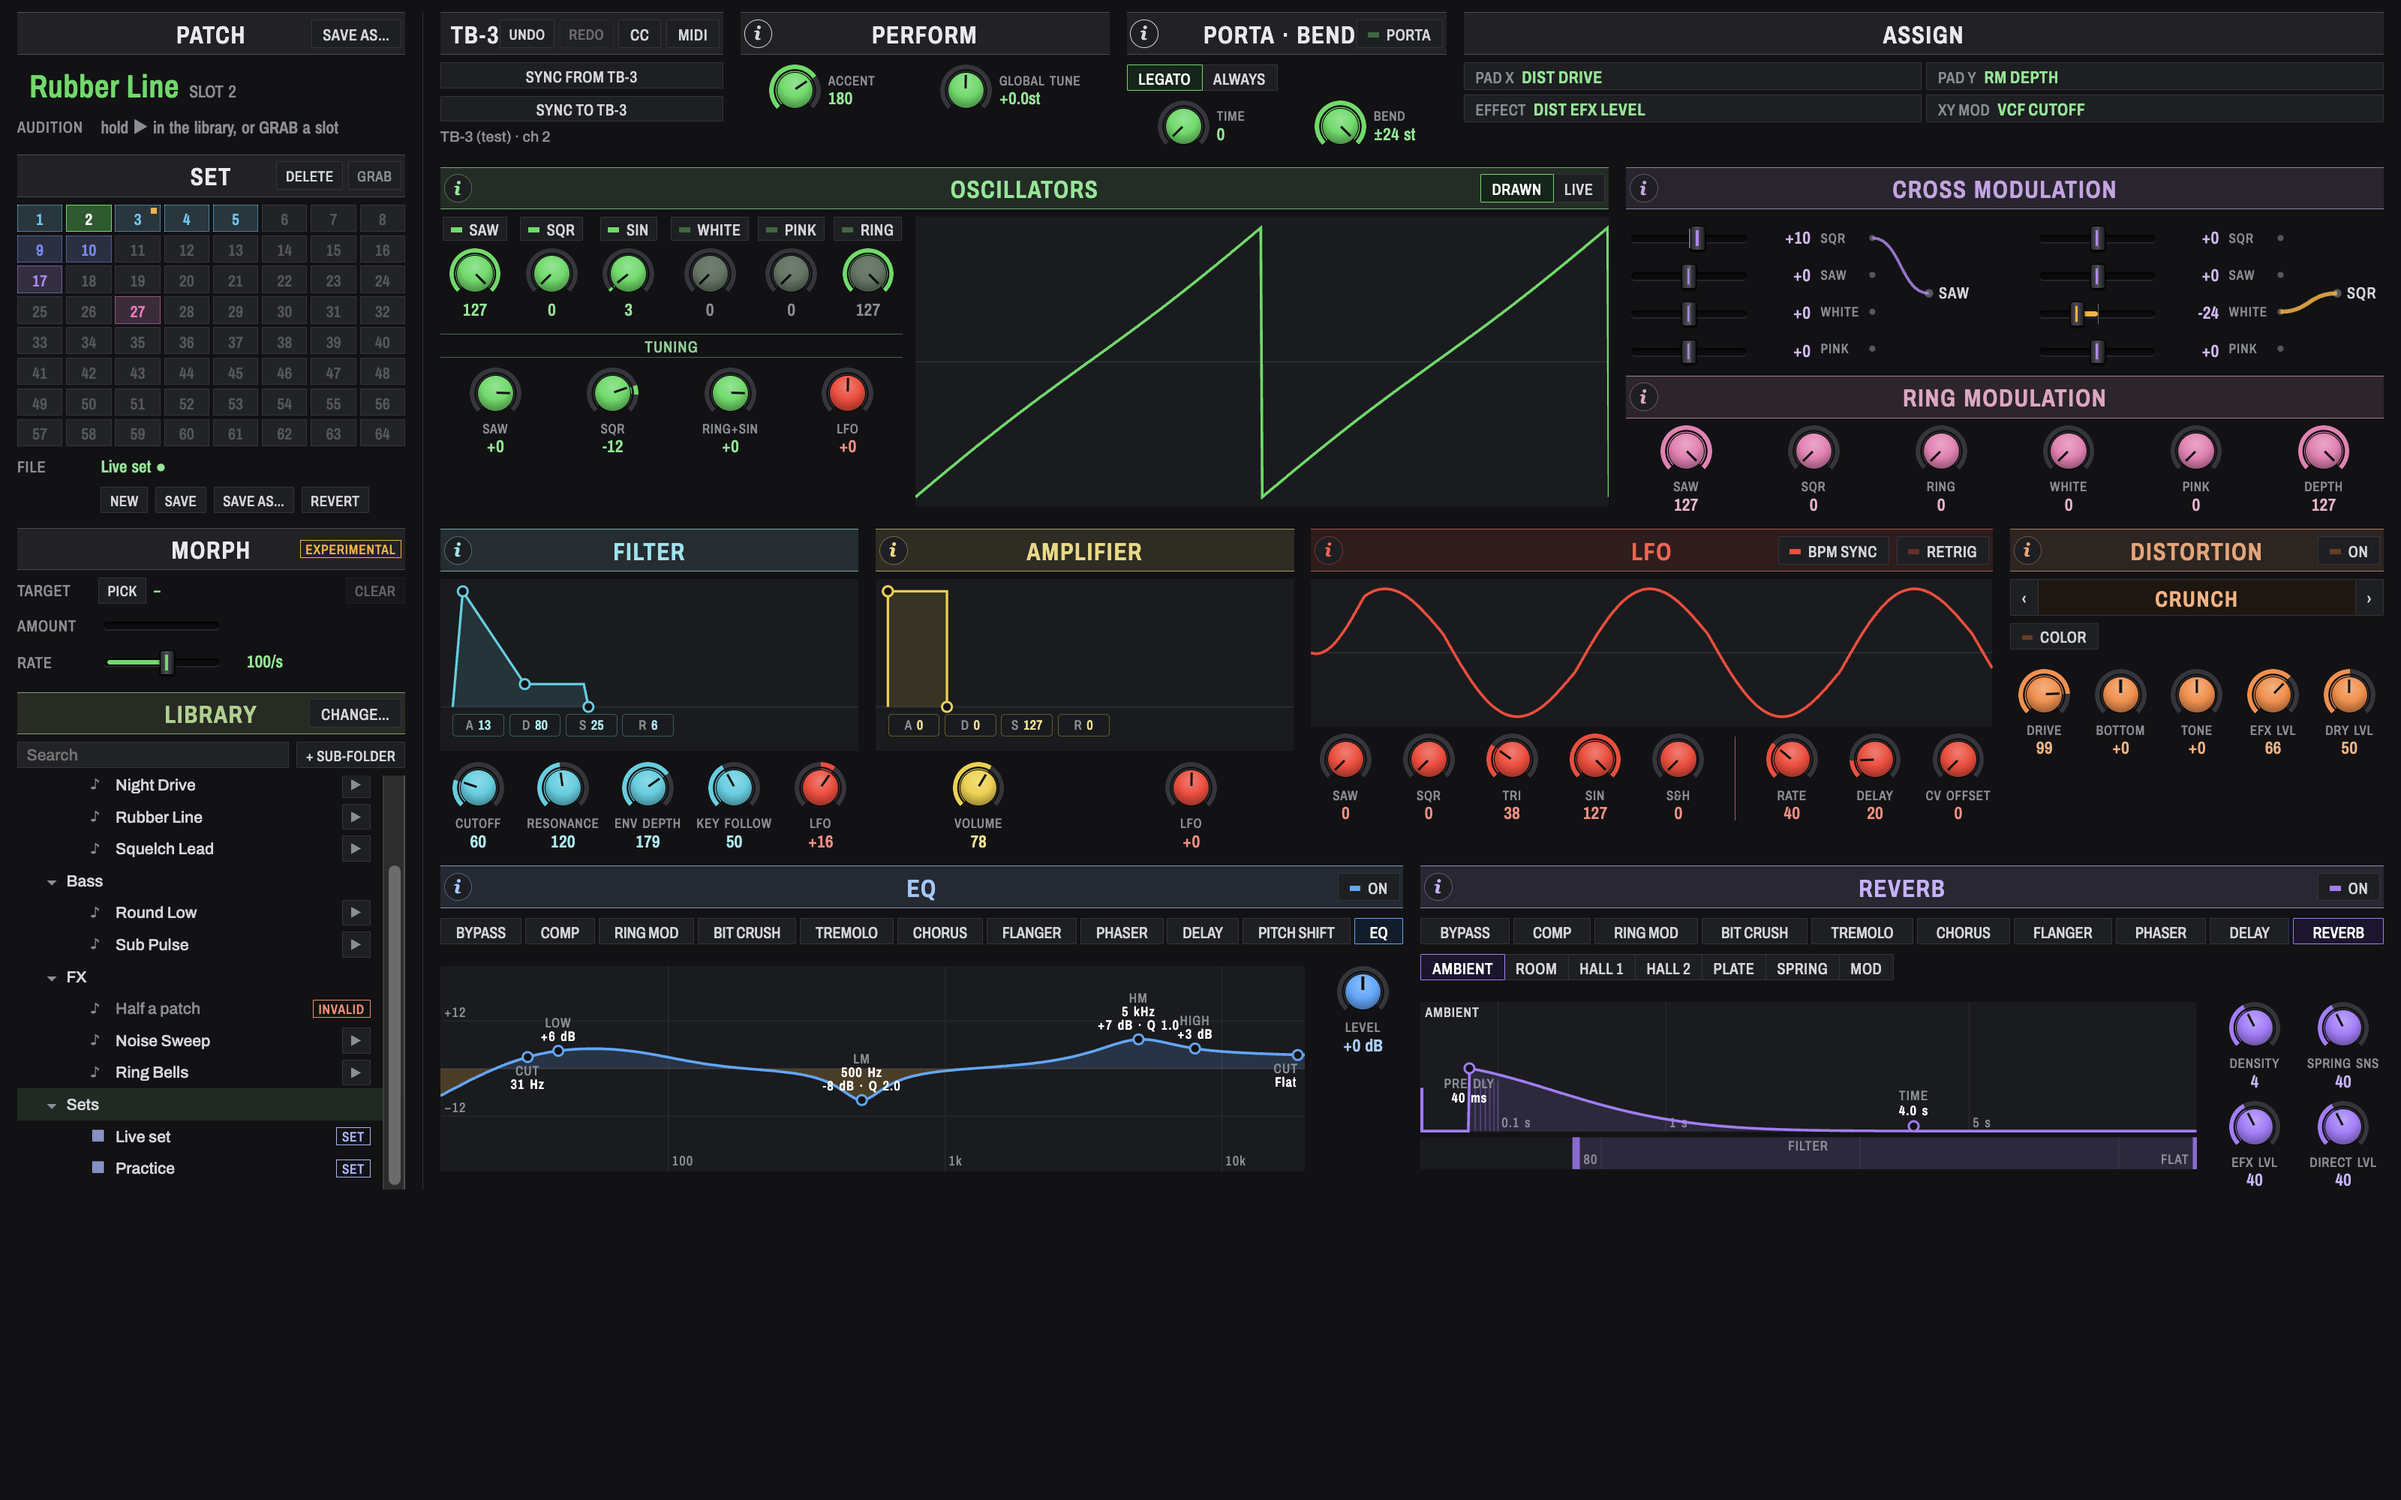
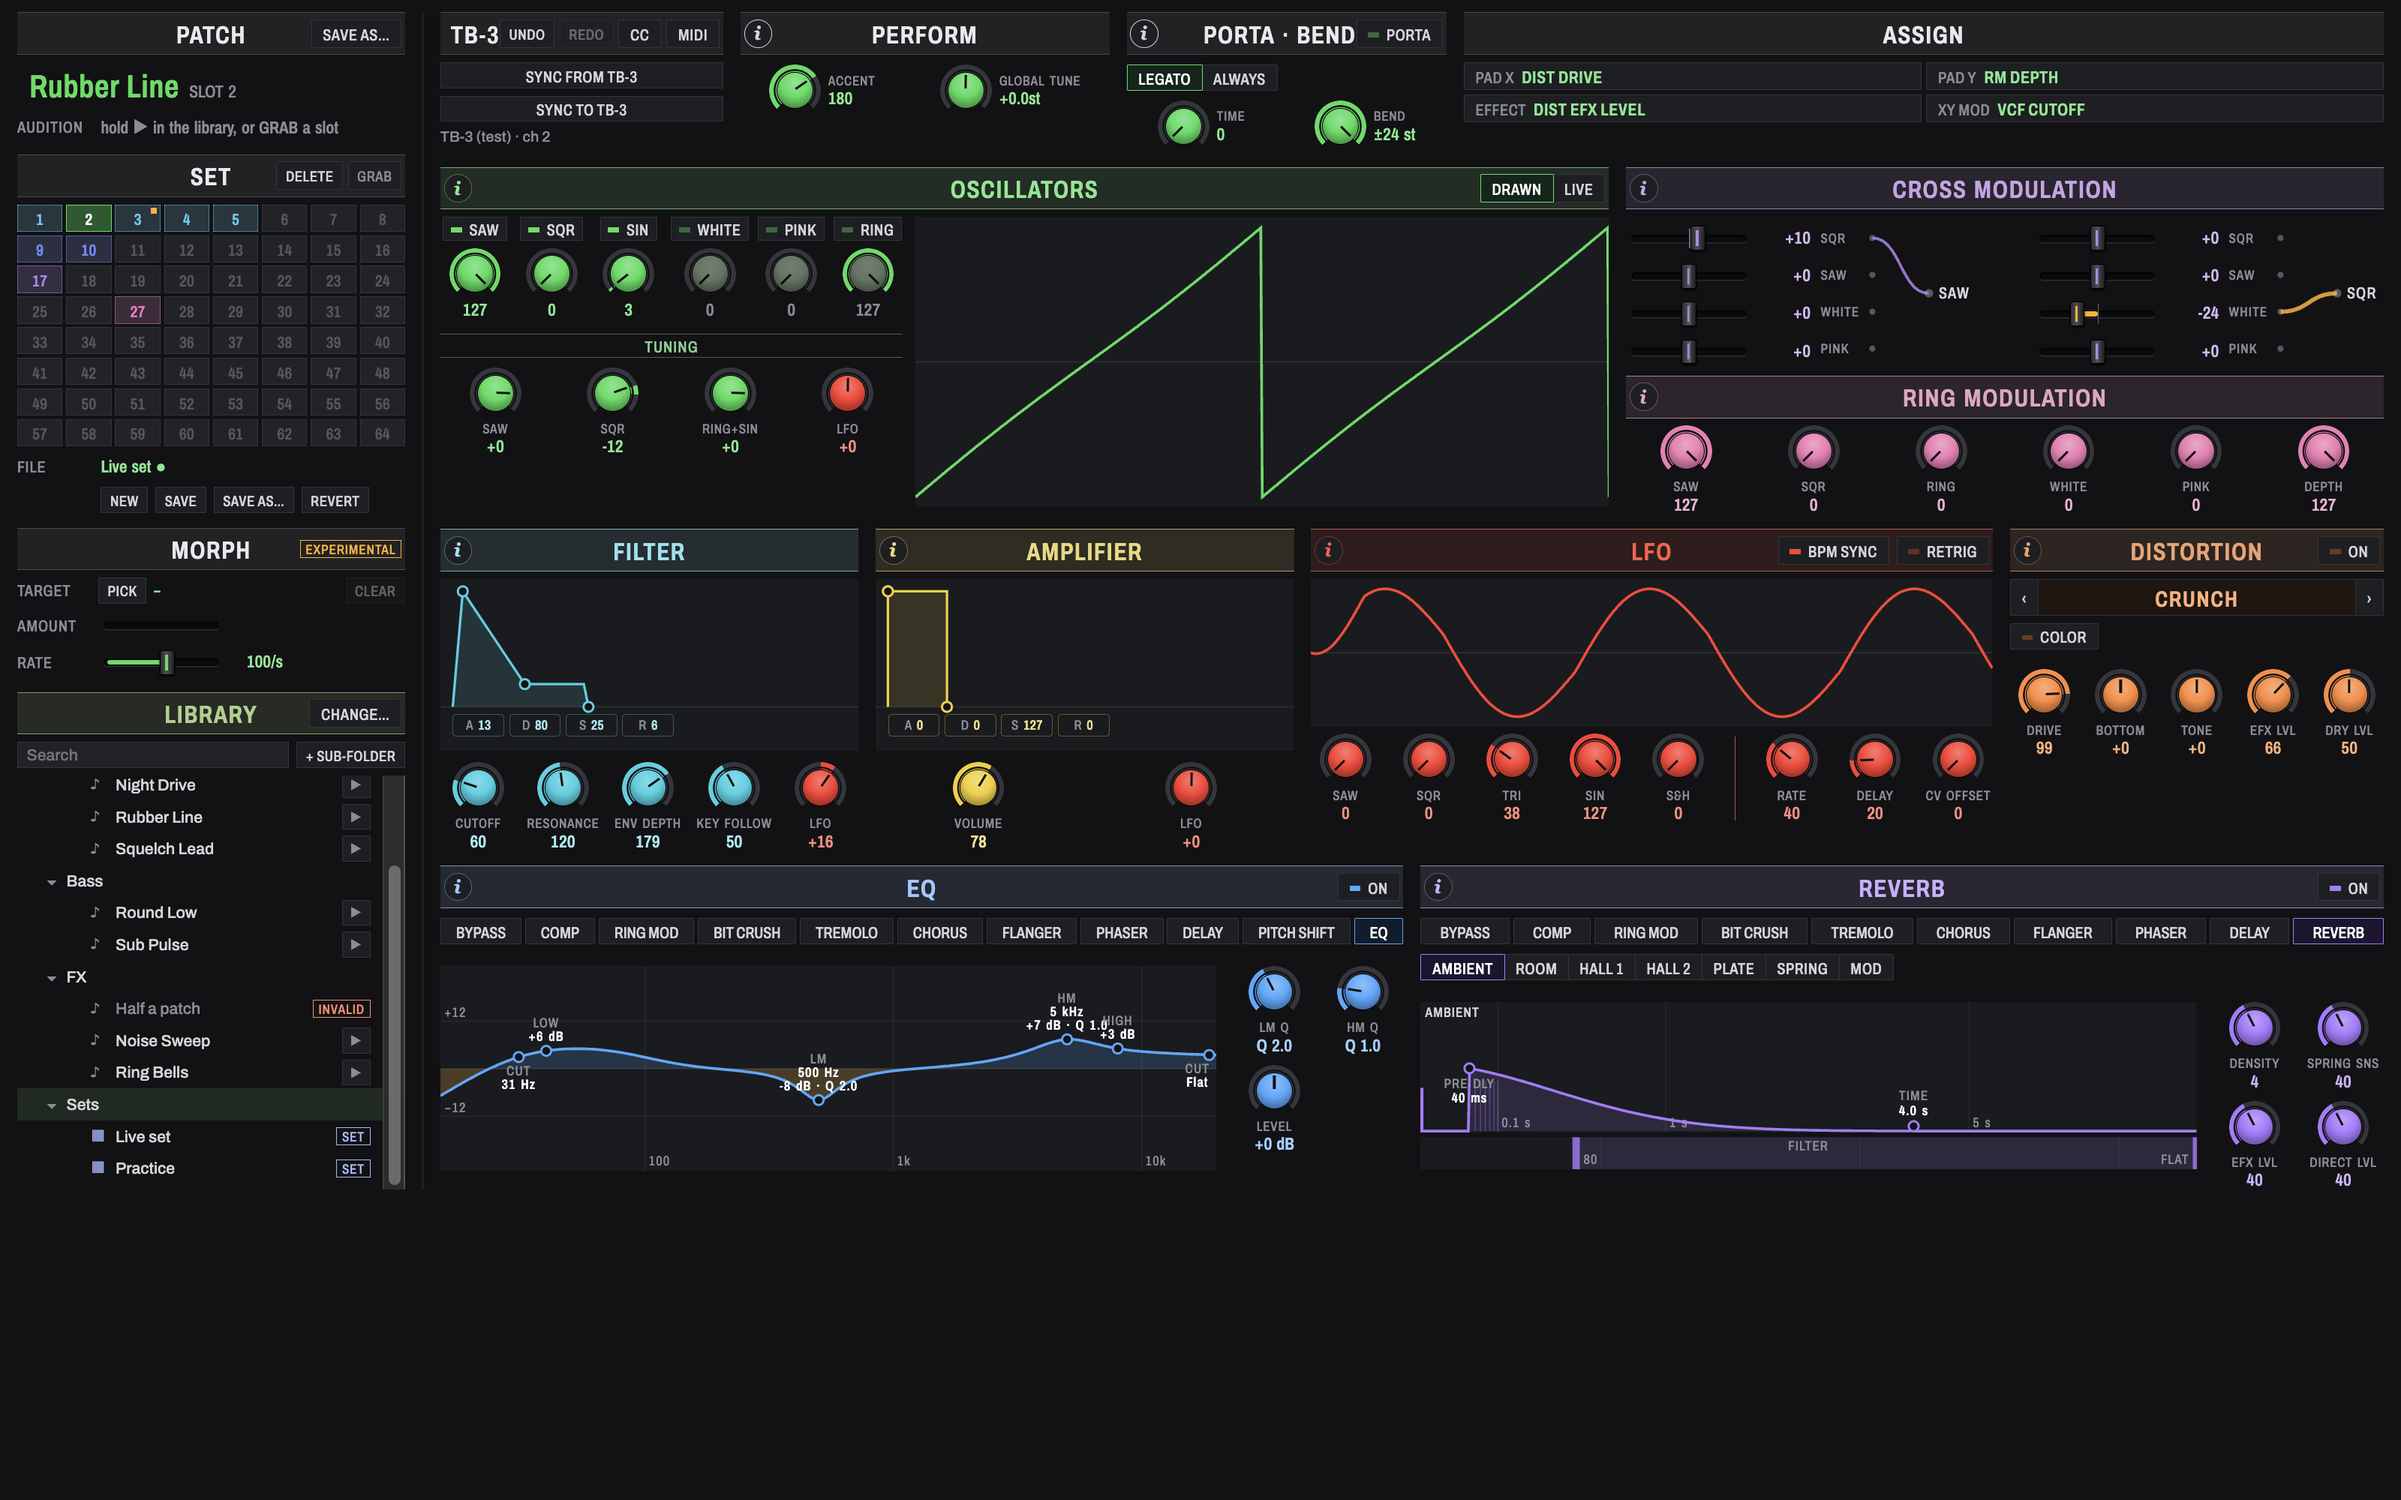
TB-3 EQ: LM Q and HM Q knobs beside LEVEL (Q was only a hidden scroll on the mid bands' handles)

diff --git a/apps/tb3/src/editor/efx/eq.tsx b/apps/tb3/src/editor/efx/eq.tsx
@@ -1,5 +1,6 @@
 // The EQ's drawing: its frequency response with a handle for each band (ui/EqView.tsx). Every band setting but
-// LEVEL is set here.
+// LEVEL is set here. The mid bands' Q is also a scroll on their handles, which nobody finds, so LM Q and HM Q stay
+// out of the view's list and get knobs beside LEVEL as well.
 import { dispDb20, dispEQFreq, dispEQQ, dispHPF, dispLPF, EQ_FREQS, EQ_Q, HPF_FREQS, LPF_FREQS } from "../../core/display";
 import { EQ_MAX_HZ, EQ_MIN_HZ, eqGainDb, eqResponse, parseHz } from "../../core/eqResponse";
 import type { EqSettings } from "../../core/eqResponse";
@@ -24,7 +25,8 @@ export const EQ_OFFSETS = {
   level: 0x5e,
 } as const satisfies Record<keyof EqSettings, number>;
 
-export const EQ_IN_VIEW = Object.values(EQ_OFFSETS).filter((o) => o !== EQ_OFFSETS.level);
+const EQ_KNOBS: readonly number[] = [EQ_OFFSETS.lmQ, EQ_OFFSETS.hmQ, EQ_OFFSETS.level];
+export const EQ_IN_VIEW = Object.values(EQ_OFFSETS).filter((o) => !EQ_KNOBS.includes(o));
 
 const hzTable = (labels: readonly string[], flat: number) => labels.map((l) => parseHz(l) ?? flat);
 const EQ_HZ = hzTable(EQ_FREQS, EQ_MIN_HZ);

diff --git a/apps/tb3/src/core/help/efx.ts b/apps/tb3/src/core/help/efx.ts
@@ -148,7 +148,7 @@ export const EFX_TYPE_HELP: Readonly<Record<string, EfxTypeHelp>> = {
       "HM GAIN": "The high-mid band's boost or cut, ±20 dB.",
       LEVEL: "The EQ's output level, ±20 dB.",
     },
-    notes: ["Drag a band's handle sideways for its frequency, up and down for its gain; scroll on a mid band for its Q."],
+    notes: ["Drag a band's handle sideways for its frequency, up and down for its gain; scroll on a mid band for its Q, or turn its Q knob."],
   },
   REVERB: {
     summary: "A reverb (EFX2 only): the sound in a space, from a small room to a long hall, a plate or a spring.",

diff --git a/docs/tb3-phase2-design.md b/docs/tb3-phase2-design.md
@@ -151,7 +151,8 @@ The panel stacks, top to bottom:
    beside the standard slot grid, whose faders are shorter (118 px) and a little more tightly
    spaced so the effects row keeps its height. The curve is editable like the envelopes:
    - **LM / HM** handles: drag horizontally to step through the 28 frequencies, vertically for
-     gain; scroll for Q; double-click resets the gain to 0 dB.
+     gain; scroll for Q (also LM Q and HM Q knobs beside LEVEL, since the scroll is hard to find);
+     double-click resets the gain to 0 dB.
    - **LOW / HIGH** shelf handles: vertical drag (or scroll) for gain; double-click resets.
    - **CUT** handles at the edges: horizontal drag (or scroll) for the low/high cut frequency;
      double-click returns them to Flat.

diff --git a/apps/tb3/docs/user-guide.md b/apps/tb3/docs/user-guide.md
@@ -218,9 +218,10 @@ the bottom row. Each is titled with its effect type.
 
   The pictures make the settings easy to read; they aren't measurements of the TB-3's sound.
 - **EQ** (EFX1 only) shows its frequency response, with a handle for each band showing its
-  frequency, gain and (for the mid bands) Q. LEVEL is the knob beside it.
+  frequency, gain and (for the mid bands) Q. Beside it are knobs for the mid bands' width (LM Q and
+  HM Q) and the output LEVEL.
   - Drag a handle sideways to change its frequency, or up and down to change its gain.
-  - Scroll over a mid band's handle to change its width (Q).
+  - Scroll over a mid band's handle to change its width (Q), or turn its Q knob.
   - Double-click a handle to reset it.
 
 ## Patches and sets

diff --git a/docs/tb3-efx-views.md b/docs/tb3-efx-views.md
@@ -35,7 +35,7 @@ the JV-2080's), and the drawing takes the width they leave. Every handle sends t
 | PHASER | PhaserView | MANUAL × RESONANCE |
 | DELAY | Sync Delay / Ko-Da-Ma taps | TIME (BPM SYNC when on, never down to OFF), FEEDBACK, LPF, TAP TIME in PAN |
 | PITCH SHIFT | ChromaticPsView | PITCH × PRE DLY for each voice |
-| EQ | (TB-3's own EqView) | every band setting but LEVEL, with frequency, gain and Q on the handles |
+| EQ | (TB-3's own EqView) | every band setting but LEVEL, with frequency, gain and Q on the handles; LM Q and HM Q also as knobs |
 | REVERB | ReverbView | TIME, PRE DLY, HPF, LPF |
 
 EFX1 is azure and EFX2 violet: `.efx1` / `.efx2` set `--tint`, `--led`, `--led-off`, `--val` and `--sel-bg`, as the
